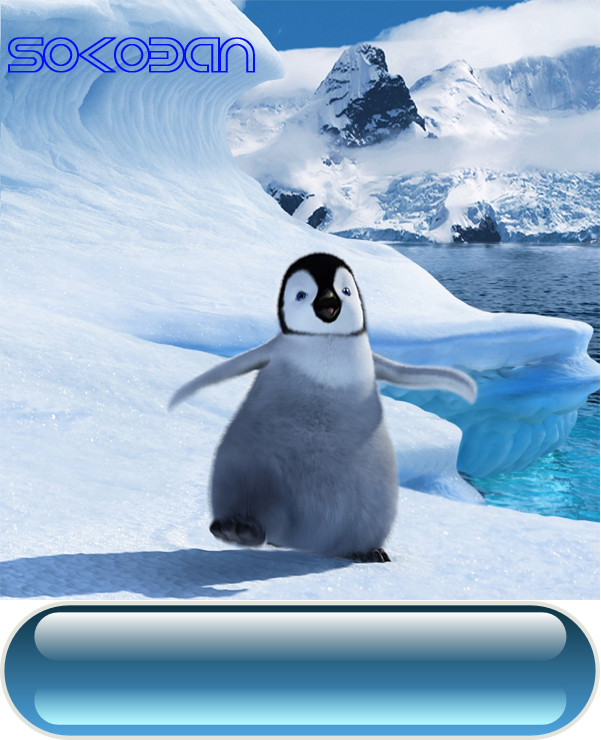
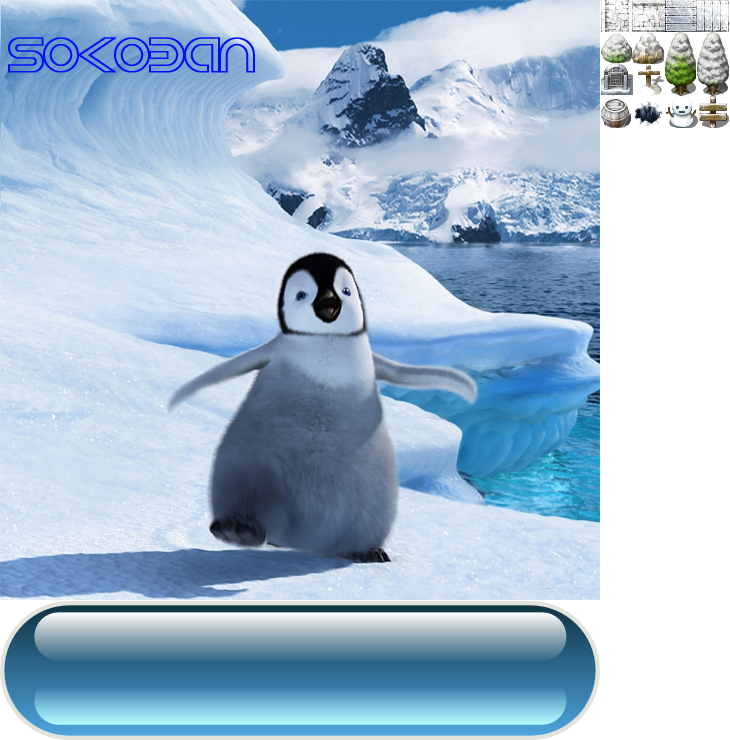
starting tiles level oaded in setup tiles

diff --git a/sokoban/GamePlay.cpp b/sokoban/GamePlay.cpp
@@ -1,0 +1,87 @@
+#include "GamePlay.h"
+#include <iostream>
+#include <string>
+#include <fstream>
+
+
+
+GamePlay::GamePlay(sf::Font & font):
+	m_font{ font }
+{
+	setupLevel();
+}
+
+
+GamePlay::~GamePlay()
+{
+}
+
+void GamePlay::update(sf::Time deltaTime)
+{
+}
+
+void GamePlay::render(sf::RenderWindow & window)
+{
+}
+
+void GamePlay::processEvents(sf::Event & event)
+{
+}
+
+void GamePlay::setupLevel()
+{
+	loadFile();	
+	setupVertexes();
+	
+}
+
+void GamePlay::loadFile()
+{
+	std::ifstream infile;
+	std::string name;
+	std::string equals;
+	sf::IntRect coords;
+	int i{ 0 };
+	infile.open("ASSETS\\IMAGES\\level1.txt");
+	while (!infile.eof() && i < TILES_HIGH)
+	{
+		infile >> m_baseLevel[i][0] >> m_baseLevel[i][1] >> m_baseLevel[i][2] >> m_baseLevel[i][3]
+			>> m_baseLevel[i][4] >> m_baseLevel[i][5] >> m_baseLevel[i][6] >> m_baseLevel[i][7]
+			>> m_baseLevel[i][8] >> m_baseLevel[i][9] >> m_baseLevel[i][10] >> m_baseLevel[i][11]
+			>> m_baseLevel[i][12] >> m_baseLevel[i][13] >> m_baseLevel[i][14] >> m_baseLevel[i][15];
+		i++;
+	}
+	infile.close();
+}
+
+void GamePlay::setupVertexes()
+{
+	for (int row = 0; row < TILES_HIGH; row++)
+	{
+		for (int col = 0; col < TILES_WIDE; col++)
+		{
+			for (int i = 0; i < 6; i++)
+			{
+				sf::Vertex vertex;
+				switch (i)
+				{
+				case 0:
+					vertex.position = sf::Vector2f{ col * TILE_SIZE,row * TILE_SIZE} + TOP_LEFT;
+					vertex.texCoords = sf::Vector2f{};
+					break;
+				case 1:
+					break;
+				case 2:
+					break;
+				case 3:
+					break;
+				case 4:
+					break;
+				case 5:
+					break;
+				}				
+				m_base.append(vertex);
+			}
+		}
+	}
+}

diff --git a/sokoban/GamePlay.h b/sokoban/GamePlay.h
@@ -1,0 +1,32 @@
+#ifndef GAMEPLAY
+#define GAMEPLAY
+
+#include "TextureManager.h"
+
+#define TILES_WIDE 16
+#define TILES_HIGH 16
+const float TILE_SIZE{ 32.0f };
+
+const sf::Vector2f TOP_LEFT{ 32.0f,32.0f };
+
+class GamePlay
+{
+public:
+	GamePlay(sf::Font & font);
+	~GamePlay();
+	void update(sf::Time deltaTime);
+	void render(sf::RenderWindow & window);
+	void processEvents(sf::Event & event);
+private:
+	void setupLevel();
+	void loadFile();
+	void setupVertexes();
+	sf::VertexArray m_base;
+	sf::Font m_font;
+	
+	
+
+	int m_baseLevel[TILES_WIDE][TILES_HIGH];
+};
+
+#endif // !GAMEPLAY

diff --git a/sokoban/MainMenu.cpp b/sokoban/MainMenu.cpp
@@ -62,7 +62,7 @@ void MainMenu::processEvents(sf::Event & event)
 		
 		for (size_t i = 0; i < MAXBUTTONS; i++)
 		{
-			float left = Game::screenWidth, top = Game::screenHeight, right = 0, bottom = 0;
+			float left = static_cast<float>(Game::screenWidth), top = static_cast<float>(Game::screenHeight), right = 0.0f, bottom = 0.0f;
 			for (size_t j = 0; j < 6; j++)
 			{
 				if (m_buttons[i * 6 + j].position.x < left)

diff --git a/sokoban/Game.h b/sokoban/Game.h
@@ -4,7 +4,7 @@
 #include <SFML\Graphics.hpp>
 #include "Licence.h"
 #include "Splash.h"
-#include "TextureManager.h"
+#include "GamePlay.h"
 #include "MainMenu.h"
 
 enum class
@@ -41,7 +41,7 @@ private:
 	Licence m_licence;
 	Splash m_splash;
 	MainMenu m_mainMenu;
-	
+	GamePlay m_gamePlay;
 
 
 	sf::RenderWindow m_window;

diff --git a/sokoban/Game.cpp b/sokoban/Game.cpp
@@ -12,8 +12,8 @@ Game::Game(sf::Font & font) :
 	m_font(font),
 	m_licence(font),
 	m_splash(font),
-	m_mainMenu(font)
-
+	m_mainMenu(font),
+	m_gamePlay(font)
 {
 	m_status.setFont(font);
 	m_status.setCharacterSize(24);

diff --git a/sokoban/Splash.cpp b/sokoban/Splash.cpp
@@ -1,5 +1,6 @@
 #include "Splash.h"
 #include "Game.h"
+#include "TextureManager.h"
 #include <iostream>
 
 
